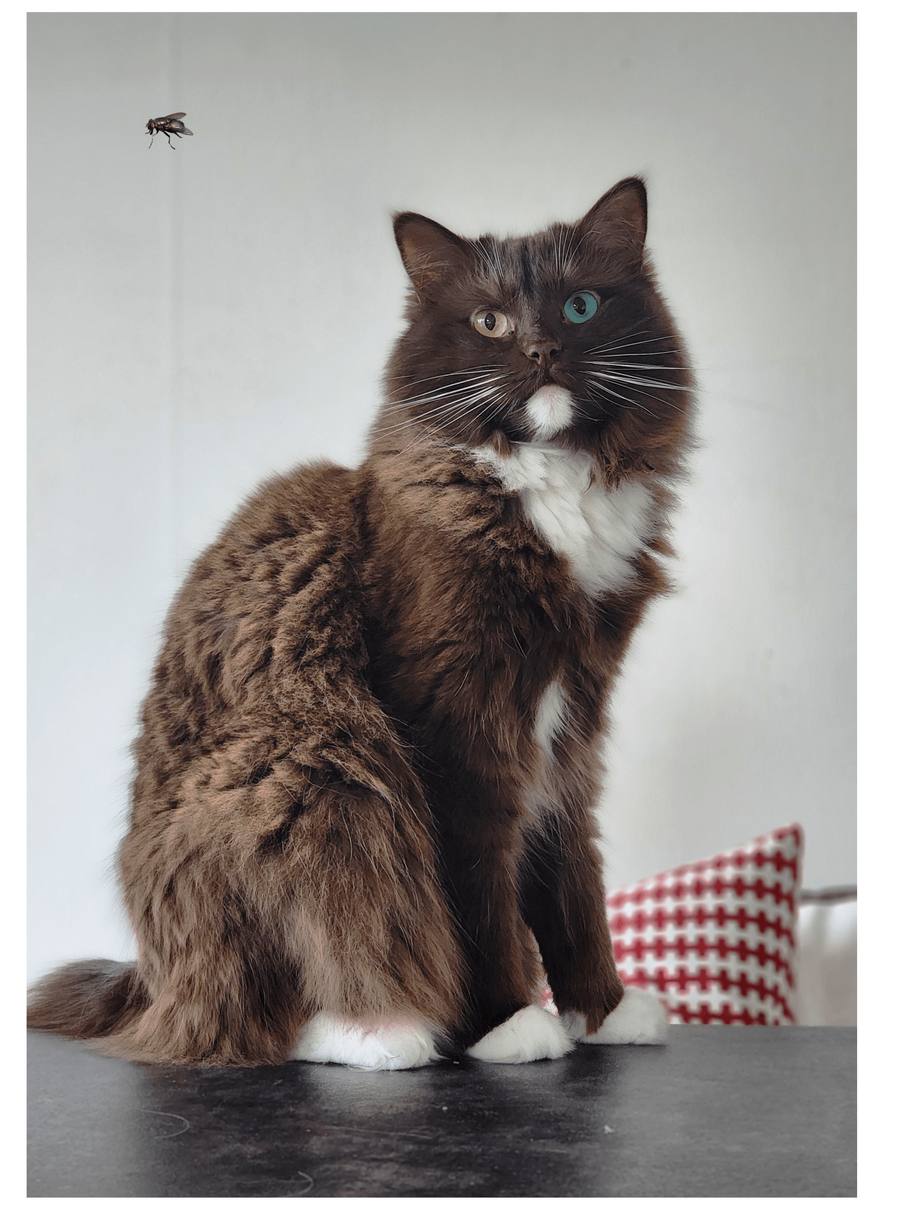
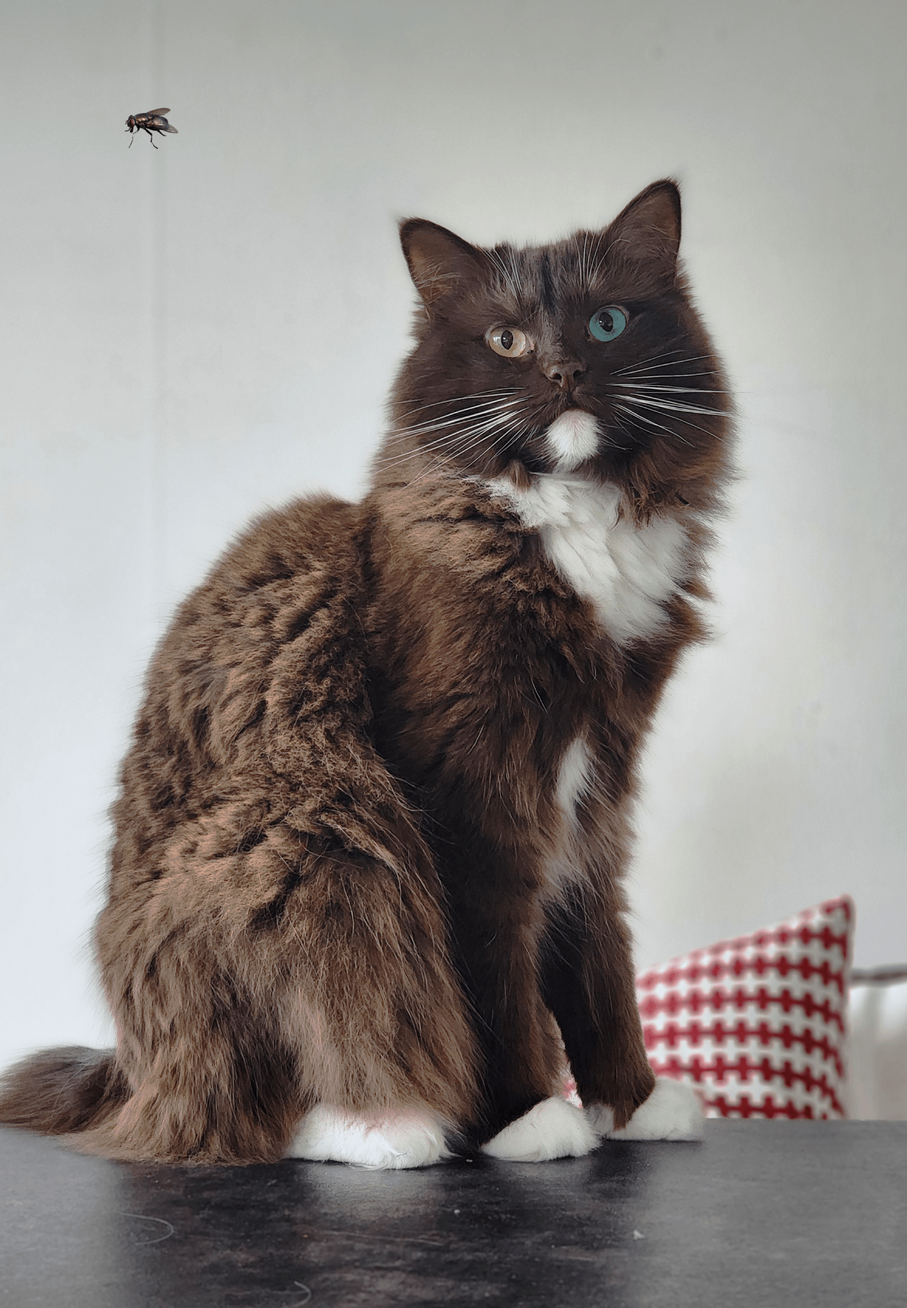
Lagt till css

diff --git a/css/style.css b/css/style.css
@@ -102,6 +102,7 @@ img {
   color: #f5f3ef;
 }
 
+/*Startsida*/
 /*Hero*/
 .hero {
   width: 100%;
@@ -114,3 +115,92 @@ img {
   height: 320px;
   object-fit: cover;
 }
+
+.picture-intro {
+  margin: 2rem 5rem;
+}
+
+.card {
+  display: flex;
+  flex-direction: column;
+  align-items: center;
+  margin-bottom: 2rem;
+}
+
+.card img {
+  width: 500px;
+  height: auto;
+  border-radius: 5px;
+}
+
+/*Bildgalleri*/
+.card-2 {
+  display: flex;
+  flex-direction: column;
+  align-items: center;
+  margin-bottom: 2rem;
+}
+
+.card-2 img {
+  width: 500px;
+  height: auto;
+  border-radius: 5px;
+}
+
+.intro p {
+  margin: 1rem;
+}
+.card-2 p {
+  margin: 1rem;
+}
+
+/*Om mig*/
+.contanier-3 {
+  display: flex;
+  flex-direction: column;
+  align-items: center;
+  margin-bottom: 2rem;
+}
+
+.contanier-3 img {
+  margin-top: 2rem;
+  width: 300px;
+  height: auto;
+  border-radius: 5px;
+}
+
+/*Större skärm*/
+@media (min-width: 768px) {
+  .menu-toggle {
+    /*Dölj ham meny*/
+    display: none;
+  }
+  /*Header*/
+  .header {
+    display: grid;
+    grid-template-columns: auto 1fr auto;
+    align-items: center;
+  }
+  .logo {
+    grid-column: 1;
+  }
+  /*Navigering*/
+  .menu {
+    grid-column: 2;
+    display: flex;
+    justify-content: center;
+    align-items: center;
+    margin-top: 2rem;
+    padding: 0;
+  }
+  .menu ul {
+    flex-direction: row;
+    gap: 4.5rem;
+    margin: 0;
+    padding: 0;
+  }
+  .menu a {
+    font-weight: 700;
+  }
+
+  }

diff --git a/pictures.html b/pictures.html
@@ -39,10 +39,14 @@
     </header>
     <main>
         <section class="contanier-2">
-            <h1>Mina bilder</h1>
-            <p>Nedan kan ni se mina redigerade bilder bredvid dess orginalbilder. Alla bilder har redigerats i Photopea
-                och exporterats till PNG format samtidigt som de komprimerats till mellan 75-80% för att få en lämplig
-                filstorlek för webben utan att förlora för mycket kvalitet.</p>
+            <div class="intro">
+                <h1>Mina bilder</h1>
+                <p>Nedan kan ni se mina redigerade bilder bredvid dess orginalbilder. Alla bilder har redigerats i
+                    Photopea
+                    och exporterats till PNG format samtidigt som de komprimerats till mellan 75-80% för att få en
+                    lämplig
+                    filstorlek för webben utan att förlora för mycket kvalitet.</p>
+            </div>
             <div class="card-2">
                 <img src="images/bildserie001.org.jpg" alt="Bild 1 orginal">
                 <img src="images/bildserie001.png" alt="Bild 1 redigerad">
